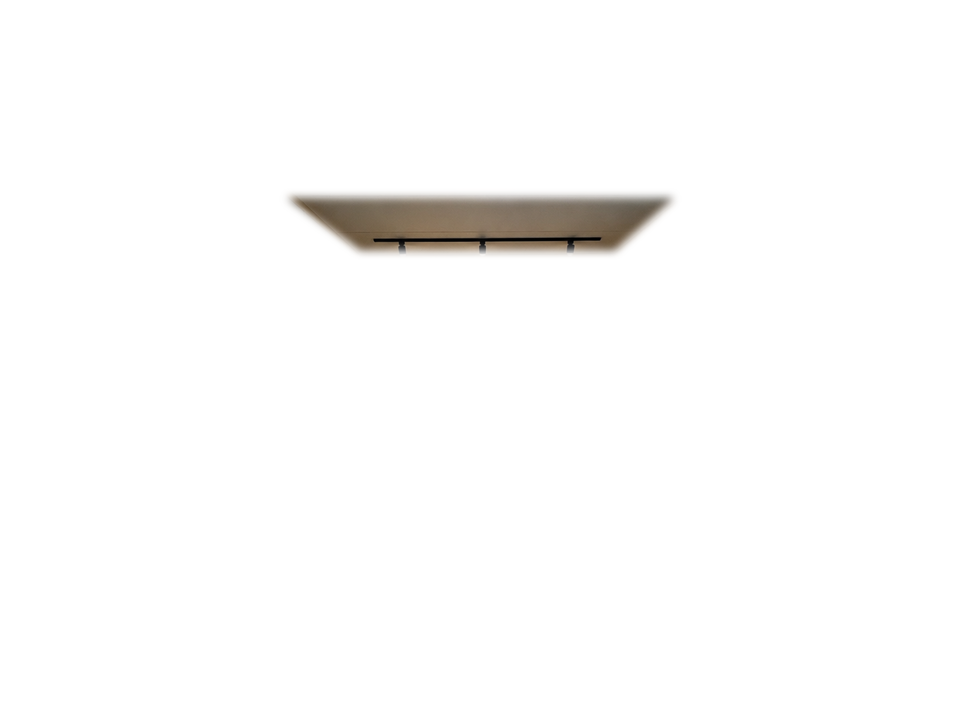
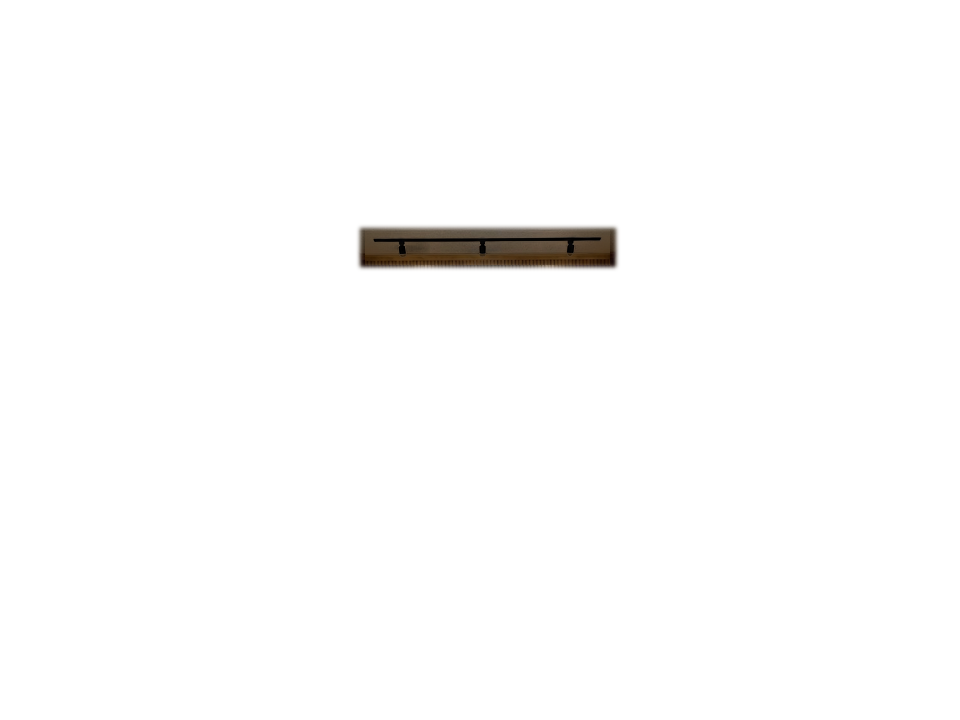
레일등 선택 시 원본 천장색 100% 유지 + 타공벽 산 모양 COB 불빛 제거

Changed region(s): [[0.2812, 0.2444, 0.7188, 0.3972]]

diff --git a/assets/configurator.js b/assets/configurator.js
@@ -2352,11 +2352,21 @@ function preloadPhotoWins(){
     '800x800': 'assets/win-800.png',
     '1200x800': 'assets/win-1200.png',
     'double1200': 'assets/win-double.png',
-    'rail_ceiling': 'assets/ceiling-rail.png?v=2'
+    'rail_ceiling': 'assets/ceiling-rail.png?v=3',
+    'slat_nocob': 'assets/slat-nocob.png?v=1'
   };
   Object.keys(map).forEach(k => {
     const im = new Image();
-    im.onload = () => { if (state.view === 'photo' && (state.window === k || (k === 'rail_ceiling' && state.light === 'rail'))) renderPhotoStage(); };
+    im.onload = () => {
+      if (k === 'slat_nocob' && im.naturalWidth){
+        const c = document.createElement('canvas');
+        c.width = 960; c.height = 720;
+        const cx = c.getContext('2d');
+        cx.drawImage(im, 0, 0, 960, 720);
+        photoCache.nocobOrig = cx.getImageData(0, 0, 960, 720).data;
+      }
+      if (state.view === 'photo' && (state.window === k || ((k === 'rail_ceiling' || k === 'slat_nocob') && state.light === 'rail'))) renderPhotoStage();
+    };
     im.src = map[k];
     photoWinImgs[k] = im;
   });
@@ -2436,6 +2446,7 @@ function renderPhotoStage(){
     const out = ctx.createImageData(W, H);
     const dst = out.data;
     const src = photoCache.orig;
+    const nocob = (state.light === 'rail' && photoCache.nocobOrig) ? photoCache.nocobOrig : null;
     const mask = photoCache.mask;
 
     const aRgb = photoHexToRgb(pick(ARTBOARD, state.artboard).hex);
@@ -2445,7 +2456,10 @@ function renderPhotoStage(){
 
     for (let i = 0, p = 0; i < mask.length; i++, p += 4){
       const m = mask[i];
-      const r = src[p], g = src[p+1], b = src[p+2];
+      const useNocob = (m === 2 && nocob && nocob[p+3] > 200);
+      const r = useNocob ? nocob[p] : src[p];
+      const g = useNocob ? nocob[p+1] : src[p+1];
+      const b = useNocob ? nocob[p+2] : src[p+2];
       if (m === 0){
         dst[p] = r; dst[p+1] = g; dst[p+2] = b; dst[p+3] = 255;
         continue;

diff --git a/configurator.html b/configurator.html
@@ -120,7 +120,7 @@
 
 <div class="toast" id="toast" role="status" aria-live="polite"></div>
 
-<script type="module" src="assets/configurator.js?v=20261122o"></script>
+<script type="module" src="assets/configurator.js?v=20261122p"></script>
 <noscript>
   <style>.panel-body{display:none}.panel-foot{display:none}</style>
   <p style="padding:20px">3D 견적 시뮬레이터는 자바스크립트가 필요합니다. 전화 상담 <a href="tel:01030015906">010-3001-5906</a> 으로 문의해 주세요.</p>
